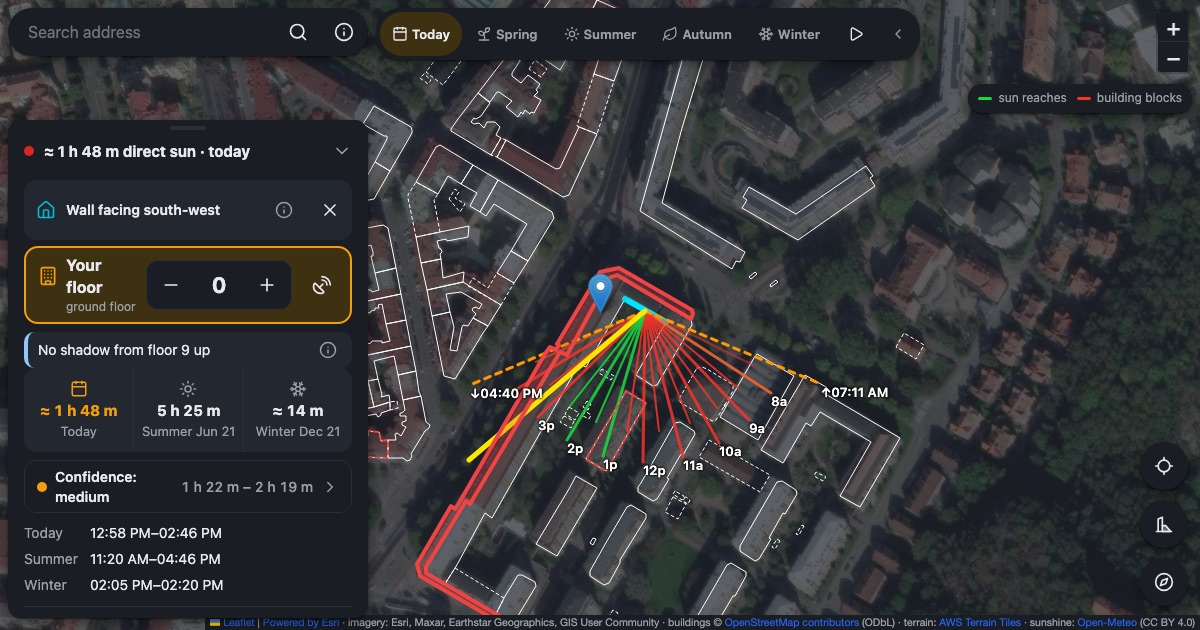
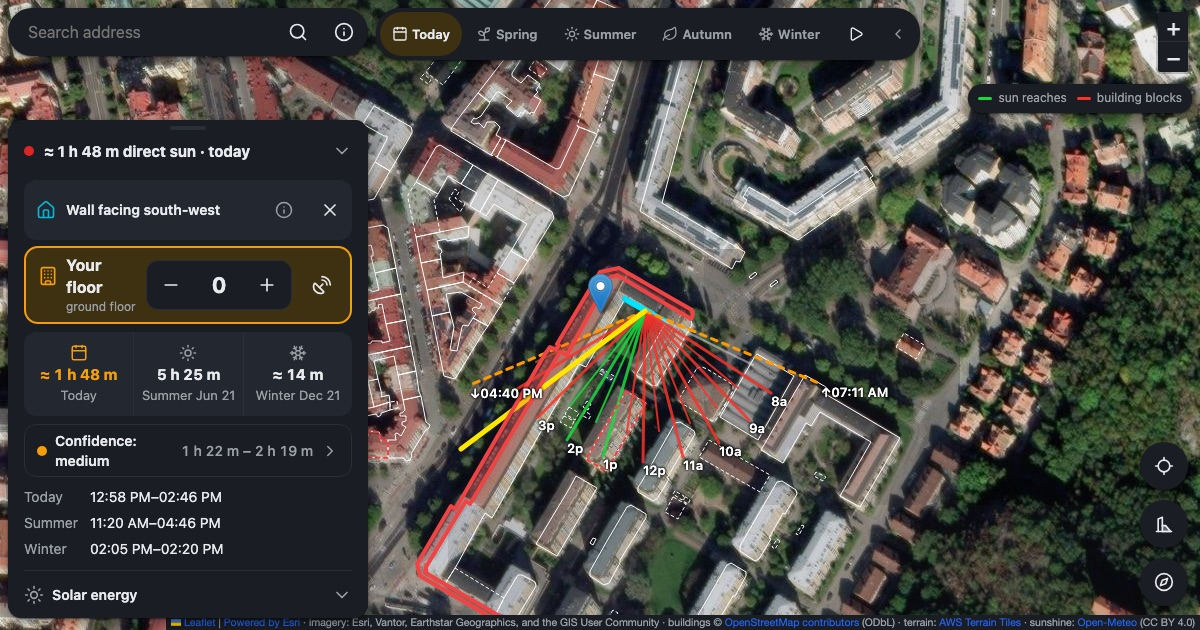
Quiet background loading, server Overpass breaker, Esri credit and key
- The loading pill counted every request, so on uncached areas the
  OSM upgrade polls (each held 8 s by the server while Overpass was
  down), stale-cell refreshes and address lookups lit it again and
  again. Background requests now go with { bg: true } and are not
  counted; the source race holds the pill only until a result is used.
- Server: if Overpass failed in the last 10 minutes, missing cells are
  answered at once instead of after 8 s; the fetch continues behind.
- "Updated with the main map data" only when something changed.
- Esri: provider credit is now "Esri, Vantor, Earthstar Geographics,
  and the GIS User Community" (from the live service). ESRI_KEY switches
  tiles to Esri's keyed static basemap service, which Esri's terms
  require for public apps (2M tiles/month free); CSP allows it.
- Preview image regenerated with the new credit.

diff --git a/app.js b/app.js
@@ -19,17 +19,28 @@ async function sfetch(k, url, opt) {
   try { const r = await fetch(url, opt); if (!r.ok) svcFail(k, 'HTTP ' + r.status); return r; }
   catch (e) { svcFail(k, e.name === 'TimeoutError' ? 'timeout' : e.message); throw e; }
 }
-// Yükleme göstergesi: devam eden her veri isteği sayılır; 300 ms'den uzun sürerse zoom'un yanında döner
+// Yükleme göstergesi: kullanıcının beklediği her veri isteği sayılır; 300 ms'den uzun sürerse haritada görünür.
+// { bg: true } ile gönderilen arka plan istekleri (OSM'ye geçiş yoklaması, bayat hücre tazeleme, adres çözme) sayılmaz:
+// Overpass çökükken her yoklama sunucuda 8 sn bekleyip göstergeyi dakikalarca yakıp söndürüyordu.
 { const f = window.fetch.bind(window); let n = 0, t = null;
   const set = d => { n += d; clearTimeout(t); if (n > 0) t = setTimeout(() => document.body.classList.add('loading'), 300); else document.body.classList.remove('loading'); };
-  window.fetch = (...a) => { set(1); return f(...a).finally(() => set(-1)); }; }
+  window.fetch = (u, o) => o?.bg ? f(u, o) : (set(1), f(u, o).finally(() => set(-1)));
+  // busy(p): göstergeyi bir işin (ör. kaynak yarışı) sonucuna bağlar; içindeki istekler bg ile sessiz gidebilir
+  window.busy = p => (set(1), p.finally(() => set(-1))); }
 // Yedek kaynak çağrısı: sayılır, hatası servis kaydına düşer
 async function backup(k, fn) { net(k); try { return await fn(); } catch (e) { svcFail(k, e.name === 'TimeoutError' ? 'timeout' : e.message); throw e; } }
 function net(k) { NET[k]++; const el = document.getElementById('nettxt'); if (el) el.textContent = tr('netLine', { s: tr('reqs', { n: NET.sunpeek }), n: Object.values(NET).reduce((a, b) => a + b, 0) - NET.sunpeek }); }
-const tiles = L.tileLayer('https://server.arcgisonline.com/ArcGIS/rest/services/World_Imagery/MapServer/tile/{z}/{y}/{x}', {
+// Esri World Imagery. Esri'nin koşulları herkese açık uygulamada ArcGIS Location Platform hesabı ve API anahtarı istiyor
+// (ayda 2 milyon temel harita karosu ücretsiz). Anahtar sunpeek.uk referrer'ına kısıtlı olmalı; istemcide görünmesi normaldir.
+// Boşsa eski anahtarsız uç nokta kullanılır (koşullara uymaz, yalnız geçiş için).
+const ESRI_KEY = '';
+const TILE_URL = ESRI_KEY
+  ? `https://static-map-tiles-api.arcgis.com/arcgis/rest/services/static-basemap-tiles-service/v1/arcgis/imagery/static/tile/{z}/{y}/{x}?token=${ESRI_KEY}`
+  : 'https://server.arcgisonline.com/ArcGIS/rest/services/World_Imagery/MapServer/tile/{z}/{y}/{x}';
+const tiles = L.tileLayer(TILE_URL, {
   // Atıflar: Esri temel harita koşulu ("Powered by Esri" + görüntü kaynakları), OSM ODbL (katkıcılar + lisans bağlantısı),
   // AWS Terrain Tiles kaynak listesi, Open-Meteo CC BY 4.0. Overture yalnız kullanıldığında eklenir (useOverture).
-  maxZoom: 20, maxNativeZoom: 19, attribution: '<a href="https://www.esri.com" target="_blank" rel="noopener">Powered by Esri</a> · imagery: Esri, Maxar, Earthstar Geographics, GIS User Community · buildings © <a href="https://www.openstreetmap.org/copyright" target="_blank" rel="noopener">OpenStreetMap contributors</a> (ODbL) · terrain: <a href="https://github.com/tilezen/joerd/blob/master/docs/attribution.md" target="_blank" rel="noopener">AWS Terrain Tiles</a> · sunshine: <a href="https://open-meteo.com" target="_blank" rel="noopener">Open-Meteo</a> (CC BY 4.0)'
+  maxZoom: 20, maxNativeZoom: 19, attribution: '<a href="https://www.esri.com" target="_blank" rel="noopener">Powered by Esri</a> · imagery: Esri, Vantor, Earthstar Geographics, and the GIS User Community · buildings © <a href="https://www.openstreetmap.org/copyright" target="_blank" rel="noopener">OpenStreetMap contributors</a> (ODbL) · terrain: <a href="https://github.com/tilezen/joerd/blob/master/docs/attribution.md" target="_blank" rel="noopener">AWS Terrain Tiles</a> · sunshine: <a href="https://open-meteo.com" target="_blank" rel="noopener">Open-Meteo</a> (CC BY 4.0)'
 });
 tiles.on('tileloadstart', () => net('tiles')).on('tileerror', () => svcFail('tiles', 'tile error')).addTo(map); // dinleyici önce: ilk karolar da sayılır
 const sLayer = L.layerGroup().addTo(map), bLayer = L.layerGroup().addTo(map), rLayer = L.layerGroup().addTo(map);
@@ -310,7 +321,7 @@ async function lookupAddr(e, retried = false) {
   if (addrPending.has(e.key)) return; // aynı kayıt için tek istek
   addrPending.add(e.key);
   try {
-    const srv = await sfetch('sunpeek', `/api/reverse?lang=${lang}&lat=${e.lat.toFixed(5)}&lon=${e.lon.toFixed(5)}`, { signal: AbortSignal.timeout(12000) }).catch(() => null);
+    const srv = await sfetch('sunpeek', `/api/reverse?lang=${lang}&lat=${e.lat.toFixed(5)}&lon=${e.lon.toFixed(5)}`, { signal: AbortSignal.timeout(12000), bg: true }).catch(() => null);
     const a = (srv?.ok ? await srv.json() : await photonReverse(e.lat, e.lon)).address ?? {};
     const addr = [[a.road, a.house_number].filter(Boolean).join(' '), a.city ?? a.town ?? a.village ?? a.suburb].filter(Boolean).join(', ');
     if (addr) putHist(hist().map(x => x.key === e.key ? { ...x, addr: addr.slice(0, 200) } : x));
@@ -437,10 +448,10 @@ function cellsAround(lat, lng) {
     for (let j = Math.floor((lng - dLon) / CELL); j <= Math.floor((lng + dLon) / CELL); j++) out.push(`oc:${i}:${j}`);
   return out;
 }
-async function fetchCells(keys) { // eksik/bayat hücreleri kapsayan tek kutu; her öğe ilk noktasının hücresine yazılır
+async function fetchCells(keys, quiet = false) { // eksik/bayat hücreleri kapsayan tek kutu; her öğe ilk noktasının hücresine yazılır
   const ij = keys.map(k => k.split(':').slice(1).map(Number)), is = ij.map(x => x[0]), js = ij.map(x => x[1]);
   const box = [Math.min(...is) * CELL, Math.min(...js) * CELL, (Math.max(...is) + 1) * CELL, (Math.max(...js) + 1) * CELL];
-  const el = await fetchOverpass(box), by = new Map(keys.map(k => [k, []]));
+  const el = await fetchOverpass(box, quiet), by = new Map(keys.map(k => [k, []]));
   for (const e of el) { const g = e.geometry?.[0] ?? e.members?.find(m => m.geometry)?.geometry?.[0]; if (!g) continue;
     by.get(`oc:${Math.floor(g.lat / CELL)}:${Math.floor(g.lon / CELL)}`)?.push(e); }
   await Promise.all([...by].map(([k, v]) => cput(k, v)));
@@ -452,11 +463,11 @@ const within = (lat, lng, m = 600) => { const k = Math.cos(lat * Math.PI / 180),
 async function fetchEls(lat, lng) { const a = await fetchArea(lat, lng); return Object.assign(a.filter(within(lat, lng)), { backup: a.backup }); } // hesaba 600 m (en yakın köşe); yedek işareti korunur
 async function fetchArea(lat, lng) {
   const keys = cellsAround(lat, lng), { fresh, stale, missing } = await cmany(keys, BLD_TTL);
-  if (stale.size) viaServer([...stale.keys()]).catch(() => {}); // arka planda tazele
+  if (stale.size) viaServer([...stale.keys()], true).catch(() => {}); // arka planda tazele
   if (!missing.length) return [...fresh.values(), ...stale.values()].flat();
   // Overpass'a 10 sn önce başlama hakkı; yanıt yoksa ya da hata verirse Overture paralel başlar, önce gelen kullanılır.
   // Geç gelen Overpass yanıtı yine hücrelere yazılır: bir sonraki ziyarette ana kaynağın verisi önbellekten gelir.
-  const osm = viaServer(missing).then(got => [...fresh.values(), ...stale.values(), ...got.values()].flat());
+  const osm = viaServer(missing, false, true).then(got => [...fresh.values(), ...stale.values(), ...got.values()].flat());
   let ovt = null;
   // yedek veri işaretlenir (backup = beklenen OSM hücreleri): sonuç kaynağa göre değişebildiği için güvende gösterilir ve
   // sunucu OSM'yi getirince sayfa ona geçer (upgradeLater)
@@ -466,27 +477,29 @@ async function fetchArea(lat, lng) {
     const t = setTimeout(() => { osmDownUntil = Date.now() + 600000; startOvt().then(res, rej); }, Date.now() < osmDownUntil ? 0 : HEDGE);
     osm.then(() => { clearTimeout(t); osmDownUntil = 0; }, () => { clearTimeout(t); osmDownUntil = Date.now() + 600000; startOvt().then(res, rej); });
   });
-  try { return await Promise.any([osm, late]); } catch (e) { throw e.errors?.[0] ?? e; } // ikisi de yoksa Overpass'ın hatası
+  try { return await busy(Promise.any([osm, late])); } catch (e) { throw e.errors?.[0] ?? e; } // ikisi de yoksa Overpass'ın hatası
 }
 // Önce SunPeek'in paylaşılan önbelleği: başka bir kullanıcının indirdiği bölge anında gelir; eksikleri sunucu Overpass'tan çeker.
 // Sunucuya ulaşılamazsa doğrudan Overpass; sunucu bazı hücreleri getiremediyse (Overpass yok) hata → Overture yarışı devralır.
-async function viaServer(keys) {
+// bg: arka plan (gösterge yanmaz; sunucu yoksa doğrudan Overpass'a da gidilmez, kullanıcı beklemiyor).
+// quiet: gösterge yanmaz ama yedek yol açık (yarışta: göstergeyi yarışın kendisi tutar, kaybeden istek sessiz sürer).
+async function viaServer(keys, bg = false, quiet = bg) {
   let r;
-  try { r = await sfetch('sunpeek', `/api/cells?k=${keys.map(k => k.slice(3)).join(',')}`, { signal: AbortSignal.timeout(15000) }); } catch { r = null; }
-  if (!r?.ok) return fetchCells(keys);
+  try { r = await sfetch('sunpeek', `/api/cells?k=${keys.map(k => k.slice(3)).join(',')}`, { signal: AbortSignal.timeout(15000), bg: quiet }); } catch { r = null; }
+  if (!r?.ok) { if (bg) throw new Error('server'); return fetchCells(keys, quiet); }
   const { cells = {}, missing = [] } = await r.json(), by = new Map();
   for (const [ij, v] of Object.entries(cells)) if (Array.isArray(v)) { by.set('oc:' + ij, v); cput('oc:' + ij, v); }
   if (missing.length) throw new Error('buildings: server could not fetch ' + missing.length + ' cells');
   return by;
 }
 const useOverture = () => map.attributionControl.addAttribution('buildings: <a href="https://docs.overturemaps.org/attribution/" target="_blank" rel="noopener">© Overture Maps Foundation</a> (ODbL)');
-async function fetchOverpass([s, w, n, e]) { // kutu: güney, batı, kuzey, doğu (kış güneşi alçak: 30 m bina ~340 m'ye gölge düşürür)
+async function fetchOverpass([s, w, n, e], quiet = false) { // kutu: güney, batı, kuzey, doğu (kış güneşi alçak: 30 m bina ~340 m'ye gölge düşürür)
   const a = `${s.toFixed(4)},${w.toFixed(4)},${n.toFixed(4)},${e.toFixed(4)}`;
   const q = `[out:json][timeout:60];(way(${a})["building"];way(${a})["building:part"];relation(${a})["building"];);out tags geom;`;
   let err;
   for (const url of OVERPASS) { // ana sunucu yavaş (30+ sn) ya da 429/502/504 verebilir, sırayla aynalar
     try {
-      const r = await sfetch('overpass', url, { method: 'POST', body: new URLSearchParams({ data: q }), signal: AbortSignal.timeout(url === OVERPASS[0] ? 60000 : 30000) });
+      const r = await sfetch('overpass', url, { method: 'POST', body: new URLSearchParams({ data: q }), signal: AbortSignal.timeout(url === OVERPASS[0] ? 60000 : 30000), bg: quiet });
       if (!r.ok) throw new Error('HTTP ' + r.status);
       return (await r.json()).elements;
     } catch (e) { err = e; }
@@ -582,15 +595,15 @@ async function upgradeLater(keys, id) {
   for (const s of [20, 45, 90, 180]) {
     await new Promise(r => setTimeout(r, s * 1000));
     if (id !== req) return;
-    try { await viaServer(keys); } catch { continue; } // hâlâ eksik
+    try { await viaServer(keys, true); } catch { continue; } // hâlâ eksik
     if (id !== req) return;
-    const keep = house && { lat: house.lat, lon: house.lon, az: house.az };
+    const keep = house && { lat: house.lat, lon: house.lon, az: house.az }, before = B.buildings.length;
     await refreshBuildings(true);
     if (keep && last?.src === 'osm') {
       const [x, y] = frame(pt.lat, pt.lng).to(keep.lat, keep.lon), e = pickEdge(B.buildings.concat(B.own), x, y, 5);
       if (e && Math.abs(((e.az - keep.az + 540) % 360) - 180) < 30) setHouse(e); else house = null, drawBuildings(), draw();
     }
-    say(tr('dataUpgraded'), 'ok');
+    if (keep || B.buildings.length !== before) say(tr('dataUpgraded'), 'ok'); // binasız yerde değişen bir şey yok: mesaj gürültü olurdu
     return;
   }
 }
@@ -785,7 +798,7 @@ async function photon(q) {
       display_name: [[p.name, [p.street, p.housenumber].filter(Boolean).join(' ')].filter(Boolean).join(', '), p.city, p.country].filter(Boolean).join(', ') }; });
 }
 async function photonReverse(lat, lon) {
-  const r = await sfetch('photon', `https://photon.komoot.io/reverse?limit=1&lat=${lat.toFixed(5)}&lon=${lon.toFixed(5)}`, { signal: AbortSignal.timeout(10000) });
+  const r = await sfetch('photon', `https://photon.komoot.io/reverse?limit=1&lat=${lat.toFixed(5)}&lon=${lon.toFixed(5)}`, { signal: AbortSignal.timeout(10000), bg: true }); // adres arka planda
   if (!r.ok) throw new Error('HTTP ' + r.status);
   const p = (await r.json()).features?.[0]?.properties ?? {};
   return { address: { road: p.street ?? (p.housenumber ? p.name : undefined), house_number: p.housenumber, city: p.city ?? p.town ?? p.village ?? p.district } };

diff --git a/api/server.js b/api/server.js
@@ -98,6 +98,7 @@ export function createServer(sql, { log = console } = {}) {
     return keys;
   }
 
+  let osmDownUntil = 0;
   async function cells(keys) {
     const ij = keys.map(k => k.split(':').map(Number));
     const rows = await sql`select c.i, c.j, c.data, c.fetched_at > now() - make_interval(days => ${TTL_DAYS}) as fresh
@@ -108,8 +109,9 @@ export function createServer(sql, { log = console } = {}) {
     const out = Object.fromEntries([...found].map(([k, r]) => [k, r.data]));
     let still = [];
     if (missing.length) {
-      const job = fetchCells(missing); job.catch(e => log.warn?.(`fetch ${e.message}`));
-      const got = await Promise.race([job.catch(() => null), new Promise(r => setTimeout(r, WAIT, null))]);
+      // devre kesici: Overpass son 10 dakikada çöktüyse beklemeden "eksik" denir, istemci hemen yedeğe geçer (çekim arka planda sürer)
+      const job = fetchCells(missing); job.then(() => { osmDownUntil = 0; }, e => { osmDownUntil = Date.now() + 600000; log.warn?.(`fetch ${e.message}`); });
+      const got = await Promise.race([job.catch(() => null), new Promise(r => setTimeout(r, Date.now() < osmDownUntil ? 0 : WAIT, null))]);
       if (got) for (const [k, v] of got) out[k] = v;
       still = missing.filter(k => !(k in out)); // gelmeyenler: istemci kendi yedeğine geçer, sunucu çekmeye devam eder
     }

diff --git a/README.md b/README.md
@@ -86,4 +86,4 @@ The unit tests check the sun position against an independent NOAA implementation
 
 The SunPeek source code: all rights reserved; it is published for reference. Contact the author for any other use. This applies only to the code, not to the third-party data and services below, which keep their own licences.
 
-Third-party: icons from [Lucide](https://lucide.dev) — ISC License. Time-zone lookup from [@photostructure/tz-lookup](https://github.com/photostructure/tz-lookup) — CC0. Map data © [OpenStreetMap contributors](https://www.openstreetmap.org/copyright) (ODbL); © [Overture Maps Foundation](https://docs.overturemaps.org/attribution/) (ODbL, with the source credits listed there). Imagery: Powered by Esri — Esri, Maxar, Earthstar Geographics and the GIS User Community. Terrain: [AWS Terrain Tiles](https://github.com/tilezen/joerd/blob/master/docs/attribution.md). Sunshine and elevation data: [Open-Meteo](https://open-meteo.com) (CC BY 4.0).
+Third-party: icons from [Lucide](https://lucide.dev) — ISC License. Time-zone lookup from [@photostructure/tz-lookup](https://github.com/photostructure/tz-lookup) — CC0. Map data © [OpenStreetMap contributors](https://www.openstreetmap.org/copyright) (ODbL); © [Overture Maps Foundation](https://docs.overturemaps.org/attribution/) (ODbL, with the source credits listed there). Imagery: Powered by Esri — Esri, Vantor, Earthstar Geographics and the GIS User Community (Esri World Imagery; public use requires an ArcGIS Location Platform API key, set `ESRI_KEY` in app.js). Terrain: [AWS Terrain Tiles](https://github.com/tilezen/joerd/blob/master/docs/attribution.md). Sunshine and elevation data: [Open-Meteo](https://open-meteo.com) (CC BY 4.0).
